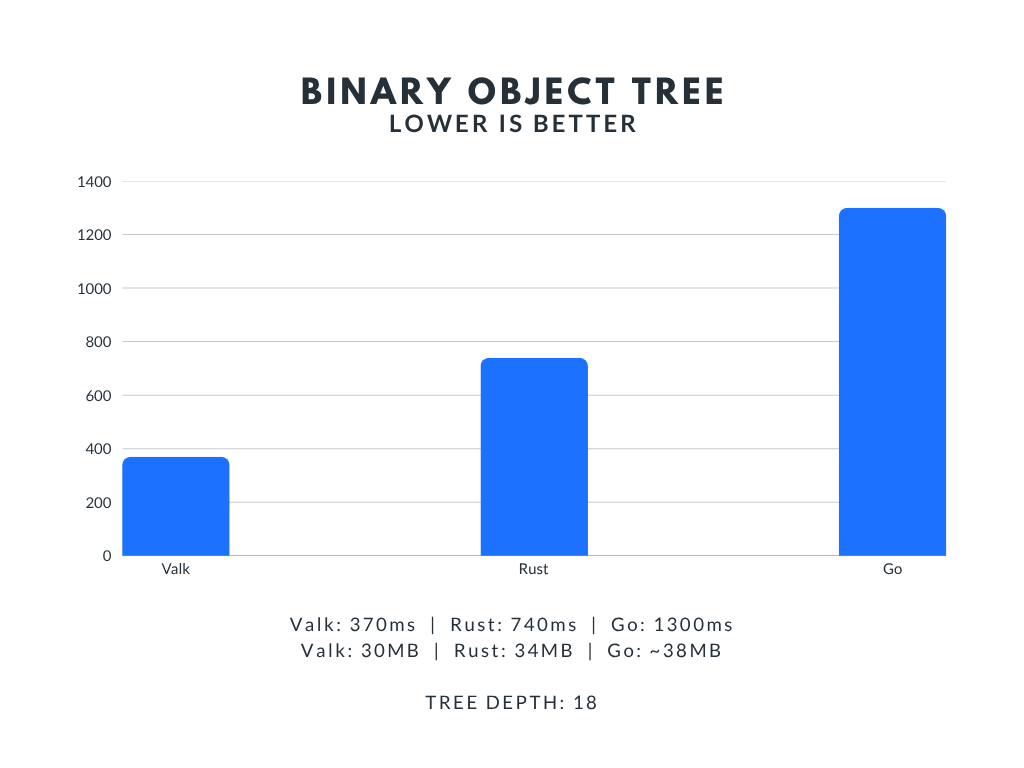
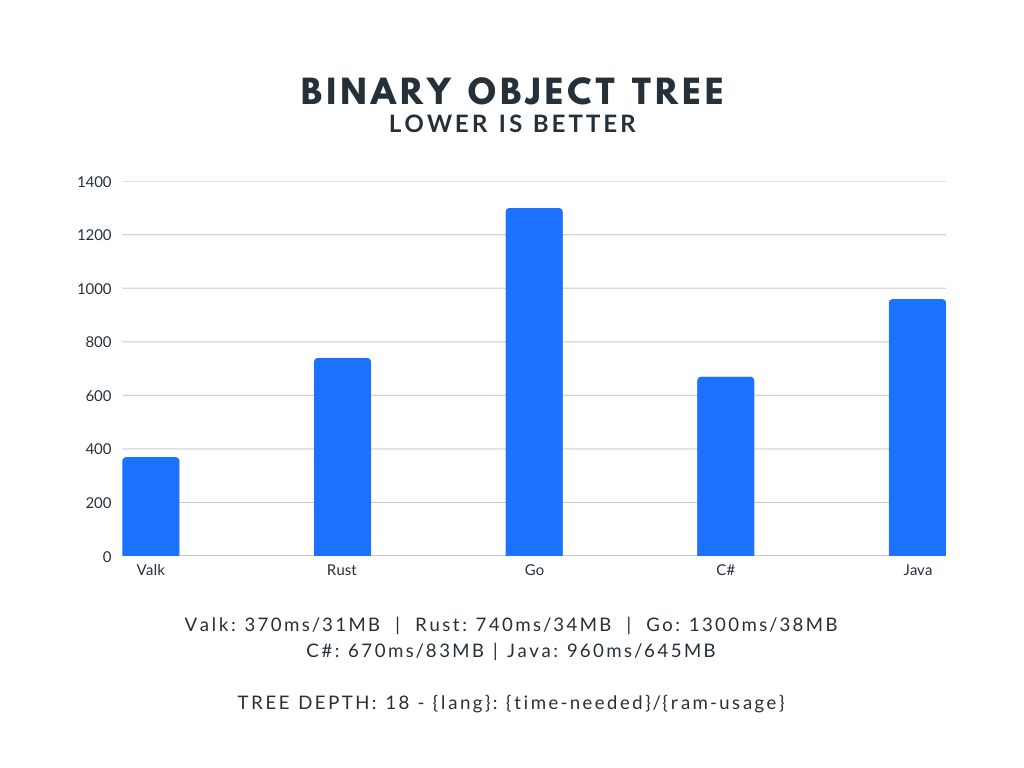
benchmarks

diff --git a/README.md b/README.md
@@ -125,7 +125,7 @@ Code: [Link](examples/bench/objects)
 
 Other languages:
 
-`C#`: Slower than other languages mentioned here. Bad GC, too much ram usage. Bad language design, different features doing the same thing. Managed by microsoft, and their products get worse every year.
+`C#`: Too much ram usage. Slower than the languages mentioned above (except in certain cases). Bad language design, different features doing the same thing. Managed by microsoft and their products get worse every year.
 
 `Java`: Same thing. Bad GC. Slower than other languages. Bad language design. The list of 'why not java' is too long.
 
